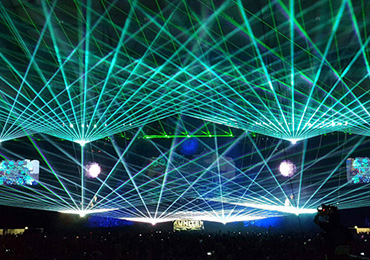
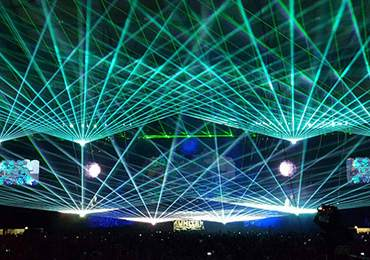
images of all other pages optimized

diff --git a/css/combined.css b/css/combined.css
@@ -1063,7 +1063,7 @@ h2.sky {
   position: static;
   height: 100%;
   float: none;
-  background-image: url("../images/chinaDrone4.jpg");
+  background-image: url("../images/chinaDrone.jpg");
   background-position: 50% 50%;
   background-size: cover;
 }
@@ -1090,7 +1090,7 @@ h2.sky {
   position: static;
   height: 100%;
   float: none;
-  background-image: url("../images/gravity1.webp");
+  background-image: url("../images/gravity11.jpg");
   background-position: 50% 50%;
   background-size: cover;
 }
@@ -1126,7 +1126,7 @@ h2.sky {
   position: static;
   height: 100%;
   float: none;
-  background-image: url("../images/hot3.png");
+  background-image: url("../images/hot3.jpg");
   background-position: 50% 50%;
   background-size: cover;
 }
@@ -1164,7 +1164,7 @@ h2.sky {
   -webkit-flex: 1;
   -ms-flex: 1;
   flex: 1;
-  background-image: url("../images/chinaDrone8.webp");
+  background-image: url("../images/chinaDrone8.jpg");
   background-position: 50% 50%;
   background-size: cover;
 }
@@ -1197,7 +1197,7 @@ h2.sky {
   -webkit-flex: 1;
   -ms-flex: 1;
   flex: 1;
-  background-image: url("../images/gravity2.webp");
+  background-image: url("../images/gravity2.jpg");
   background-position: 50% 50%;
   background-size: cover;
 }
@@ -1274,7 +1274,7 @@ h2.sky {
   -webkit-flex: 1;
   -ms-flex: 1;
   flex: 1;
-  background-image: url("../images/vr3.png");
+  background-image: url("../images/vr3.jpg");
   background-position: 50% 50%;
   background-size: cover;
 }
